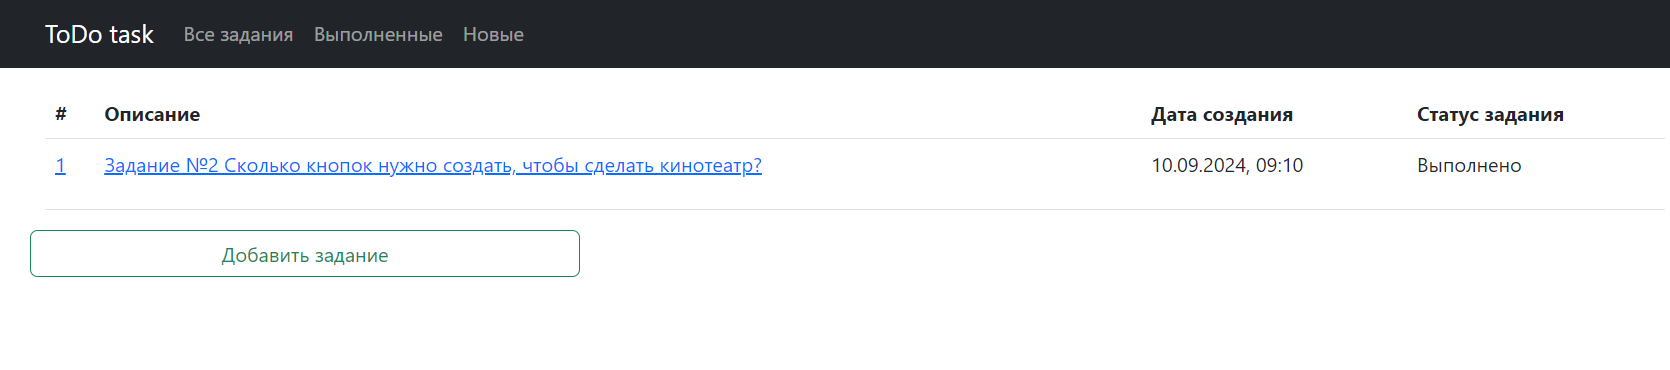
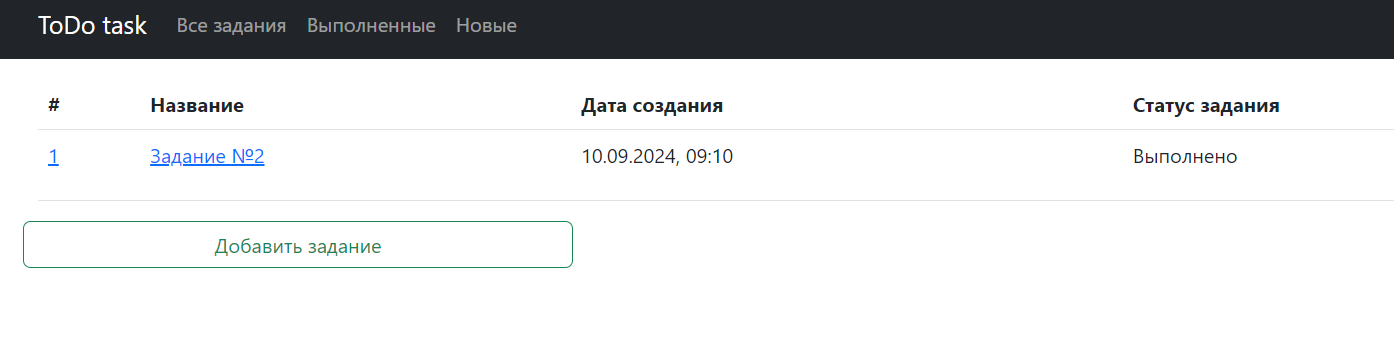
4. TODO list [#3786] правки

diff --git a/src/main/resources/templates/tasks/new.html b/src/main/resources/templates/tasks/new.html
@@ -19,6 +19,11 @@
                 <form class="mt-3">
                     <div class="mb-3">
                         <div class="col-6 col-md-3">
+                            <label for="title" class="form-label"><b>Название задания</b></label>
+                            <textarea class="form-control" id="title" name="title" rows="1" placeholder="Введите название задания" required></textarea>
+                        </div>
+                    <div class="mb-3">
+                        <div class="col-6 col-md-3">
                         <label for="description" class="form-label"><b>Описание задания</b></label>
                             <textarea class="form-control" id="description" name="description" rows="5" placeholder="Введите точное описание задания" required></textarea>
                     </div>
@@ -39,6 +44,7 @@
                     <a class="btn btn-outline-danger w-150" type="submit" th:href="@{/tasks}">Отмена</a>
                 </div>
             </div>
+                    </div>
                 </form>
             </div>
         </form>

diff --git a/src/main/resources/templates/tasks/list.html b/src/main/resources/templates/tasks/list.html
@@ -19,7 +19,7 @@
                     <thead>
                     <tr>
                         <th scope="col">#</th>
-                        <th scope="col">Описание</th>
+                        <th scope="col">Название</th>
                         <th scope="col">Дата создания</th>
                         <th scope="col">Статус задания</th>
                     </tr>
@@ -27,7 +27,7 @@
                     <tbody>
                     <tr th:each="task: ${tasks}">
                         <td><a th:href="@{/tasks/one/{id}(id=${task.id})}" th:text="${task.id}"></a></td>
-                        <td><a th:href="@{/tasks/one/{id}(id=${task.id})}" th:text="${task.description}"></a></td>
+                        <td><a th:href="@{/tasks/one/{id}(id=${task.id})}" th:text="${task.title}"></a></td>
                         <td th:text="${{task.created}}"></td>
                         <td>
                             <div th:switch="${task.done}">

diff --git a/src/main/resources/templates/tasks/update.html b/src/main/resources/templates/tasks/update.html
@@ -20,6 +20,10 @@
             <div class="container">
                 <form class="mt-3">
                     <div class="mb-3 col-6 col-mb-4">
+                        <label for="title" class="form-label"><b>Внесите изменения в название</b></label>
+                        <textarea class="form-control" id="title" name="title" th:field="*{title}" rows="1" placeholder="Задание №1"></textarea>
+                    </div>
+                    <div class="mb-3 col-6 col-mb-4">
                         <label for="description" class="form-label"><b>Внесите изменения в описание</b></label>
                         <textarea class="form-control" id="description" name="description" th:field="*{description}" rows="5" placeholder="Задание №1"></textarea>
                     </div>

diff --git a/src/main/java/ru/job4j/repository/Sql2oTaskStoreRepository.java b/src/main/java/ru/job4j/repository/Sql2oTaskStoreRepository.java
@@ -67,20 +67,20 @@ public class Sql2oTaskStoreRepository implements TaskStoreRepository {
     @Override
     public boolean changeDone(int id) {
         var session = sessionFactory.openSession();
-        boolean rsl = true;
+        int rows = 0;
         try {
             session.beginTransaction();
-            session.createQuery("UPDATE Task SET done = true WHERE id = :fId")
+            rows = session.createQuery("UPDATE Task SET done = true WHERE id = :fId")
                     .setParameter("fId", id)
                     .executeUpdate();
             session.getTransaction().commit();
         } catch (Exception e) {
             session.getTransaction().rollback();
-            rsl = false;
+
         } finally {
             session.close();
         }
-        return rsl;
+        return rows > 0;
     }
 
     @Override
@@ -106,12 +106,12 @@ public class Sql2oTaskStoreRepository implements TaskStoreRepository {
         try {
             session.beginTransaction();
             var sql = """ 
-        UPDATE Task SET description = :fDescription, created = :fCreated, done = :fDone
+        UPDATE Task SET title = :fTitle, description = :fDescription, done = :fDone
         WHERE id = :fId
         """;
             rsl = session.createQuery(sql)
+                    .setParameter("fTitle", task.getTitle())
                     .setParameter("fDescription", task.getDescription())
-                    .setParameter("fCreated", task.getCreated())
                     .setParameter("fDone", task.isDone())
                     .setParameter("fId", task.getId())
                     .executeUpdate();

diff --git a/src/main/java/ru/job4j/controller/TaskStoreController.java b/src/main/java/ru/job4j/controller/TaskStoreController.java
@@ -42,7 +42,7 @@ public class TaskStoreController {
 
    @PostMapping("/new")
     public String newTask(@ModelAttribute Task newTask, Model model) {
-       service.save(newTask);
+       var ta = service.save(newTask);
        model.addAttribute("message", "Задание успешно сохранено");
        return "redirect:/tasks";
    }
@@ -50,10 +50,6 @@ public class TaskStoreController {
    @GetMapping("/one/{id}")
    public String findById(@PathVariable int id, Model model) {
        var task = service.findById(id);
-       if (task.isEmpty()) {
-           model.addAttribute("message", "Данного задания не существует");
-           return "errors/404";
-       }
        model.addAttribute("task", task.get());
        return "tasks/one";
    }
@@ -75,7 +71,12 @@ public class TaskStoreController {
 
    @GetMapping("/{id}/update")
    public String getUpdateTask(@PathVariable int id, Model model) {
-       model.addAttribute("task", service.findById(id));
+       var find = service.findById(id);
+       if (find.isEmpty()) {
+           model.addAttribute("message", "Задание не найдено");
+           return "errors/404";
+       }
+       model.addAttribute("task", find);
        return "tasks/update";
    }
 

diff --git a/src/main/java/ru/job4j/model/Task.java b/src/main/java/ru/job4j/model/Task.java
@@ -9,12 +9,16 @@ import java.time.LocalDateTime;
 @Data
 @RequiredArgsConstructor
 @NoArgsConstructor
+@EqualsAndHashCode(onlyExplicitlyIncluded = true)
 public class Task {
 
     @Id
     @GeneratedValue(strategy = GenerationType.IDENTITY)
+    @EqualsAndHashCode.Include
     private int id;
 
+    @NonNull
+    private String title;
     @NonNull
     private String description;
     @NonNull
